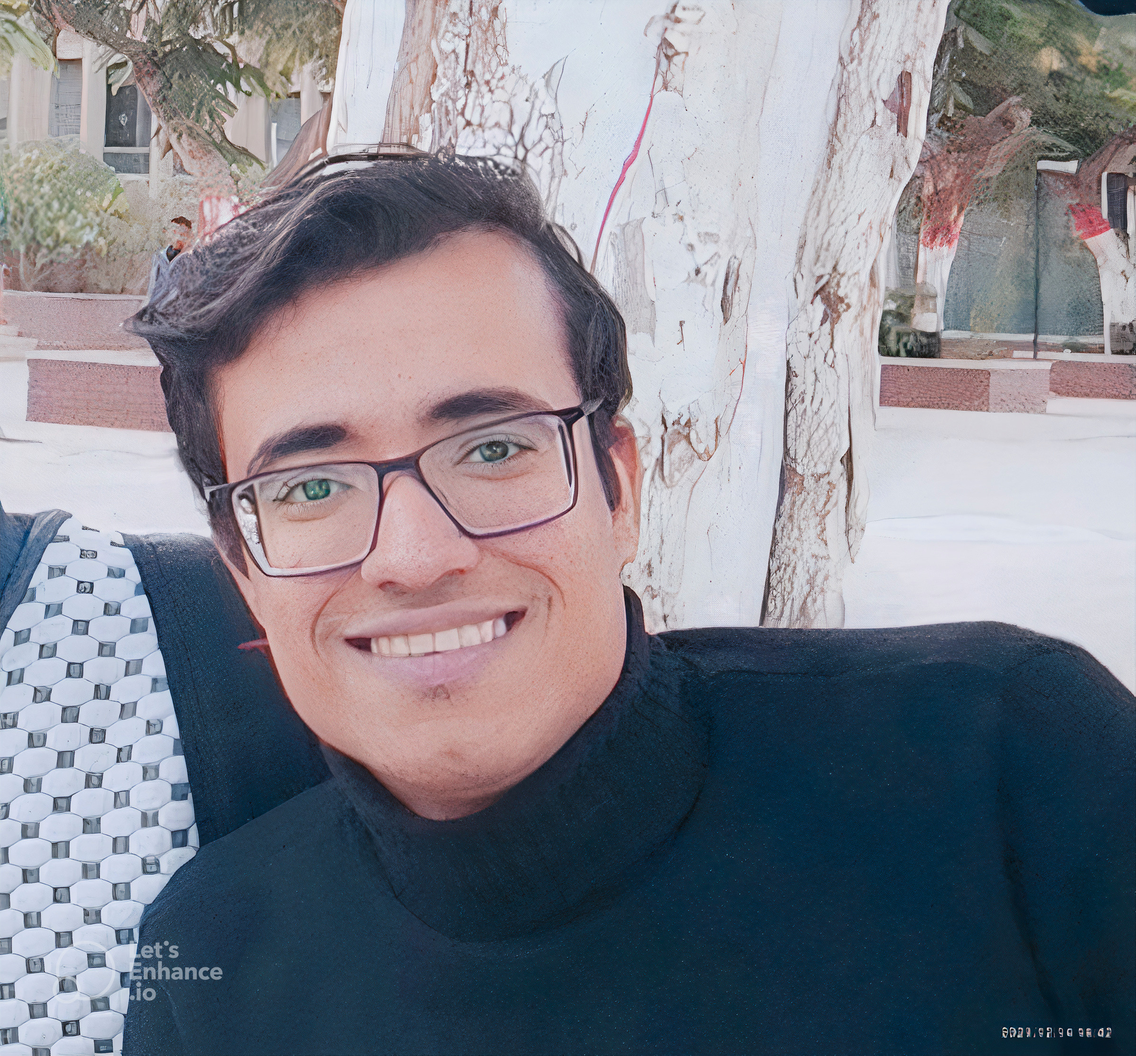
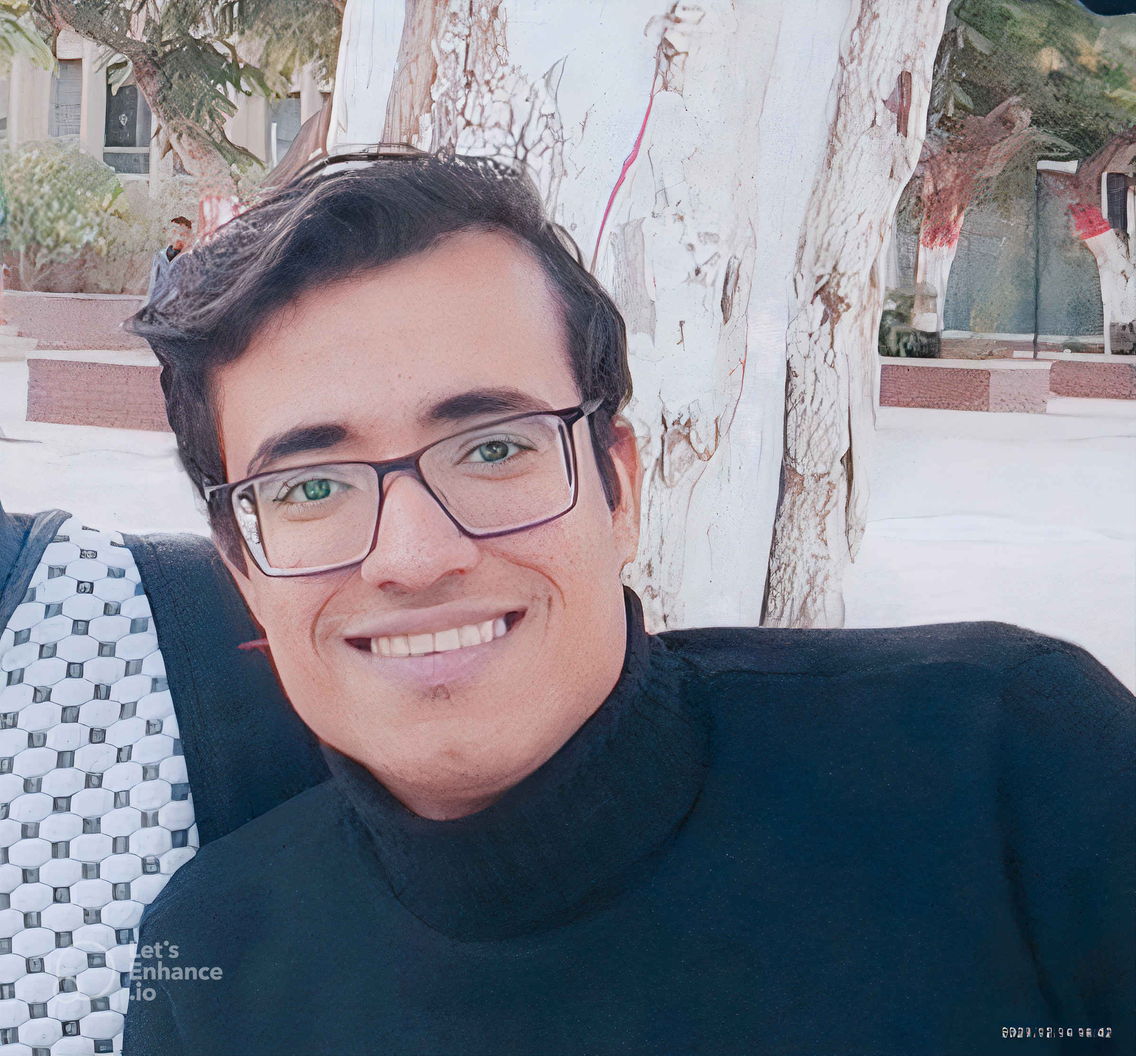
decrease the drawer image size

diff --git a/flutter_service_worker.js b/flutter_service_worker.js
@@ -3,7 +3,7 @@ const MANIFEST = 'flutter-app-manifest';
 const TEMP = 'flutter-temp-cache';
 const CACHE_NAME = 'flutter-app-cache';
 
-const RESOURCES = {".git/COMMIT_EDITMSG": "f10dd92686d1dc396b0def1bdb5e93b2",
+const RESOURCES = {".git/COMMIT_EDITMSG": "7fe4ef369492e6b969a7003179bbb131",
 ".git/config": "6e529ccf174017410a7ab89abad17b20",
 ".git/description": "a0a7c3fff21f2aea3cfa1d0316dd816c",
 ".git/HEAD": "cf7dd3ce51958c5f13fece957cc417fb",
@@ -21,11 +21,11 @@ const RESOURCES = {".git/COMMIT_EDITMSG": "f10dd92686d1dc396b0def1bdb5e93b2",
 ".git/hooks/push-to-checkout.sample": "c7ab00c7784efeadad3ae9b228d4b4db",
 ".git/hooks/sendemail-validate.sample": "4d67df3a8d5c98cb8565c07e42be0b04",
 ".git/hooks/update.sample": "647ae13c682f7827c22f5fc08a03674e",
-".git/index": "f828611f440dce0d326eba3fcbf78cc2",
+".git/index": "45e9a171b1be4c6dca3e2501259ed77b",
 ".git/info/exclude": "036208b4a1ab4a235d75c181e685e5a3",
-".git/logs/HEAD": "bb460baaea37ec834f3f4f4435e979bf",
-".git/logs/refs/heads/main": "f769e0230dbfc2dbbca55985eb43caf9",
-".git/logs/refs/remotes/origin/main": "a8b840a31a95dd593a7d870f909c40b5",
+".git/logs/HEAD": "df2575be9c7bb5a05aba4f541c013137",
+".git/logs/refs/heads/main": "563be52226dda4f7b657819d5beecad9",
+".git/logs/refs/remotes/origin/main": "adb8ae4cdbcaad7aba2bcd1457c261a5",
 ".git/objects/02/1d4f3579879a4ac147edbbd8ac2d91e2bc7323": "9e9721befbee4797263ad5370cd904ff",
 ".git/objects/03/f71e6e2c2b3f609fd4c1ae73b084039b98ddc7": "7f76dd31f42396aafaf7b9dfe7220ab7",
 ".git/objects/07/0c7034237bf6d5facc50e08d0686e16cd7d89f": "ea79a091a925a7a6ecaf86115b3e52d3",
@@ -48,6 +48,7 @@ const RESOURCES = {".git/COMMIT_EDITMSG": "f10dd92686d1dc396b0def1bdb5e93b2",
 ".git/objects/34/85db0859fbd4bbce5ae40d0beb84aeb61362c6": "ff5dcf7356a31b29598d8dc5713839bd",
 ".git/objects/35/40f44e420be1776b3de5b8ab61b1b9b9e9fd06": "13fb49b4cf30a7a50649d1fc927e74fe",
 ".git/objects/35/6bdc3db0370085e5751bb38ee9da8af4f73dfb": "d179212ad0c69467207d42495ee189d5",
+".git/objects/38/3c609e1f3b08a7a8aa5ceb2769ea4961ea73d3": "2b4ce52b8d236e04c57124201d32acb1",
 ".git/objects/3f/8e2142e41e701afc8455dd740e734e30640a2f": "dda63be3e45027f05c818c97ca9a2e68",
 ".git/objects/42/31dd2d1dc8702fb44862dc36e515603b77c53b": "34b5596e6a5d814c1424a4cdb5238b02",
 ".git/objects/42/b6f0b3d84c74fb3259f42227296afa3e39daa8": "5ab0e5c2540d52bdcc89725bf1476b03",
@@ -58,6 +59,7 @@ const RESOURCES = {".git/COMMIT_EDITMSG": "f10dd92686d1dc396b0def1bdb5e93b2",
 ".git/objects/4d/898659b04661bc545b46e00a5e24355a2b5f50": "58d74d532971269e47db498236dfb2ac",
 ".git/objects/4d/bf9da7bcce5387354fe394985b98ebae39df43": "534c022f4a0845274cbd61ff6c9c9c33",
 ".git/objects/4f/fbe6ec4693664cb4ff395edf3d949bd4607391": "2beb9ca6c799e0ff64e0ad79f9e55e69",
+".git/objects/50/6dc46614adb792b56d3dcdadeedb6204f82b77": "acfa01223678a2f0ee80c8e6680f23e5",
 ".git/objects/52/896f461139823daf687cc35421b4042e303fbc": "63a42eee682858c78a1735754a5479b4",
 ".git/objects/55/0433932fa0e5dd4f9dd781df72641c95b83779": "bdace4cabd8a7baa9bfbe21d70fa22d9",
 ".git/objects/5a/ea051dcc54ff0498e70f4a67c20adb10508911": "f8ef225271cae26502f4f162b045b21c",
@@ -141,6 +143,7 @@ const RESOURCES = {".git/COMMIT_EDITMSG": "f10dd92686d1dc396b0def1bdb5e93b2",
 ".git/objects/df/2f9b8716aa3e25794133ffdcb7bd505ddb14bc": "1fab0aa135d97c696a0037b6a00bef01",
 ".git/objects/e2/f15ece604f1ccdce9ad3d8570d7d812483d080": "44b38dfd6e6c79c0a2a53624e679f3f3",
 ".git/objects/e3/e9ee754c75ae07cc3d19f9b8c1e656cc4946a1": "14066365125dcce5aec8eb1454f0d127",
+".git/objects/e5/35b17e4f5832b439c248e4bc2481490a7415a6": "fdf0590b8a7737f47e7684a73a8e0485",
 ".git/objects/e6/3beb3e09bb975ee311f5c74cfa357ee950f22e": "8ffc54a491ae02737184f1b6356e7fd7",
 ".git/objects/e7/1c5368549e5f748e57f5bfba9aae94a4860e43": "8589642819d16db71d95e43bccc2e4e3",
 ".git/objects/e7/def95d3f44c82086f6e74d93fc0aadac7c454a": "28a34a73fd3e94b3fd53733dfaf2ed0e",
@@ -158,10 +161,12 @@ const RESOURCES = {".git/COMMIT_EDITMSG": "f10dd92686d1dc396b0def1bdb5e93b2",
 ".git/objects/f2/04823a42f2d890f945f70d88b8e2d921c6ae26": "6b47f314ffc35cf6a1ced3208ecc857d",
 ".git/objects/f5/72b90ef57ee79b82dd846c6871359a7cb10404": "e68f5265f0bb82d792ff536dcb99d803",
 ".git/objects/f7/b6944f48b54da823e5fd648c33f2280ed5915b": "4da4c19592f552e54a9b0de84309abb1",
+".git/objects/fb/4d8dd730dfac64f3acbd90414b4922c00cca79": "4f338912523a51512d41b87cbed190a4",
+".git/objects/fc/8bf69ce501cace16ee85874dad6916eb3e1d8a": "72b78d2c000d40d8a7401333c7602cfd",
 ".git/objects/fe/3b987e61ed346808d9aa023ce3073530ad7426": "dc7db10bf25046b27091222383ede515",
 ".git/objects/ff/afd292c23eade9411f41add8263ea9fa00cad8": "3c81e287af6ec4af5ff2cd397544be98",
-".git/refs/heads/main": "9ef944e18960d743245b33de103f5413",
-".git/refs/remotes/origin/main": "9ef944e18960d743245b33de103f5413",
+".git/refs/heads/main": "73bc9a21c6dc988a99bf4a96771a0c90",
+".git/refs/remotes/origin/main": "73bc9a21c6dc988a99bf4a96771a0c90",
 "assets/AssetManifest.bin": "6040b20e53e9d3ec1ec6135d8a33f3fd",
 "assets/AssetManifest.bin.json": "4fbe4b654ed1830125caea7266c20802",
 "assets/AssetManifest.json": "284e8667fc83ecf44ad3ab18a701e00d",
@@ -181,7 +186,7 @@ const RESOURCES = {".git/COMMIT_EDITMSG": "f10dd92686d1dc396b0def1bdb5e93b2",
 "assets/assets/images/flutter.png": "8efb797d33c586ef3cb71d4083dd1fdb",
 "assets/assets/images/Git&GitHub.png": "849deb4e4ab091f96674247727310174",
 "assets/assets/images/gmail.png": "61b5993283201dfa52a3fb6ffe235476",
-"assets/assets/images/IMG_20211227_100504_auto_x2.jpg": "a85dab29ae6d5047d37a57f3f080b842",
+"assets/assets/images/IMG_20211227_100504_auto_x2.jpg": "caa16bcf64284d8ac2ec0f8c1755f33c",
 "assets/assets/images/IMG_20230610_225906.png": "765a4cfc3a8a5c78f8968a6195f1dcb3",
 "assets/assets/images/linked.png": "6804056d637e3eba6488cbd7aeca53aa",
 "assets/assets/images/postman.png": "73bb49edb42db9daf6cb32614e970ef4",
@@ -223,7 +228,7 @@ const RESOURCES = {".git/COMMIT_EDITMSG": "f10dd92686d1dc396b0def1bdb5e93b2",
 "canvaskit/skwasm_heavy.wasm": "8034ad26ba2485dab2fd49bdd786837b",
 "favicon.png": "5dcef449791fa27946b3d35ad8803796",
 "flutter.js": "888483df48293866f9f41d3d9274a779",
-"flutter_bootstrap.js": "4f9495eb651334ae2b641b07c6f778b9",
+"flutter_bootstrap.js": "4b472b97c06c27f9dd28fbae9504e4ce",
 "icons/Icon-192.png": "ac9a721a12bbc803b44f645561ecb1e1",
 "icons/Icon-512.png": "96e752610906ba2a93c65f8abe1645f1",
 "icons/Icon-maskable-192.png": "c457ef57daa1d16f64b27b786ec2ea3c",

diff --git a/flutter_bootstrap.js b/flutter_bootstrap.js
@@ -38,6 +38,6 @@ _flutter.buildConfig = {"engineRevision":"1e9a811bf8e70466596bcf0ea3a8b5adb5f17f
 
 _flutter.loader.load({
   serviceWorkerSettings: {
-    serviceWorkerVersion: "1429693094"
+    serviceWorkerVersion: "469740322"
   }
 });
